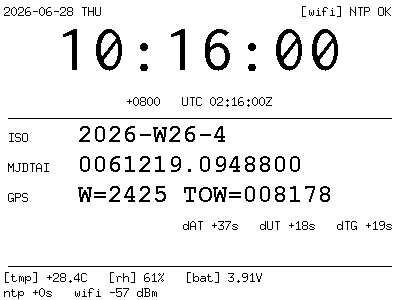
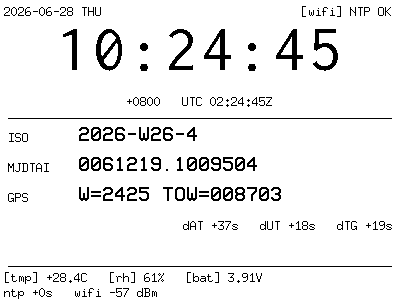
Switch scale font to u8g2_font_VCR_OSD_mf for retro look
Replaces courB18_tr with VCR_OSD_mf (12x17, retro terminal aesthetic).
Font is narrower (GPS str 204 vs 252 px) but taller glyphs fill the
row spacing well. All scale rows, offset row, and telemetry
lay out correctly at the existing y coordinates.

diff --git a/host/src/render_faces.c b/host/src/render_faces.c
@@ -11,13 +11,13 @@
  *
  * Fonts (built into u8g2):
  *   big time     : u8g2_font_inr42_mr   (42px, has ':' digits symbols)
- *   scale values : u8g2_font_courB18_tr (18px courier bold, full charset)
+ *   scale values : u8g2_font_VCR_OSD_mf (12x17 retro terminal)
  *   labels/mono  : u8g2_font_7x13_tr
  *   top/bottom   : u8g2_font_7x13_tr (11px, readable on 4.2" @119dpi)
  */
 
 #define FONT_BIG     u8g2_font_inr42_mr
-#define FONT_SCALE   u8g2_font_courB18_tr
+#define FONT_SCALE   u8g2_font_VCR_OSD_mf
 #define FONT_MONO    u8g2_font_7x13_tr
 #define FONT_SMALL   u8g2_font_7x13_tr
 